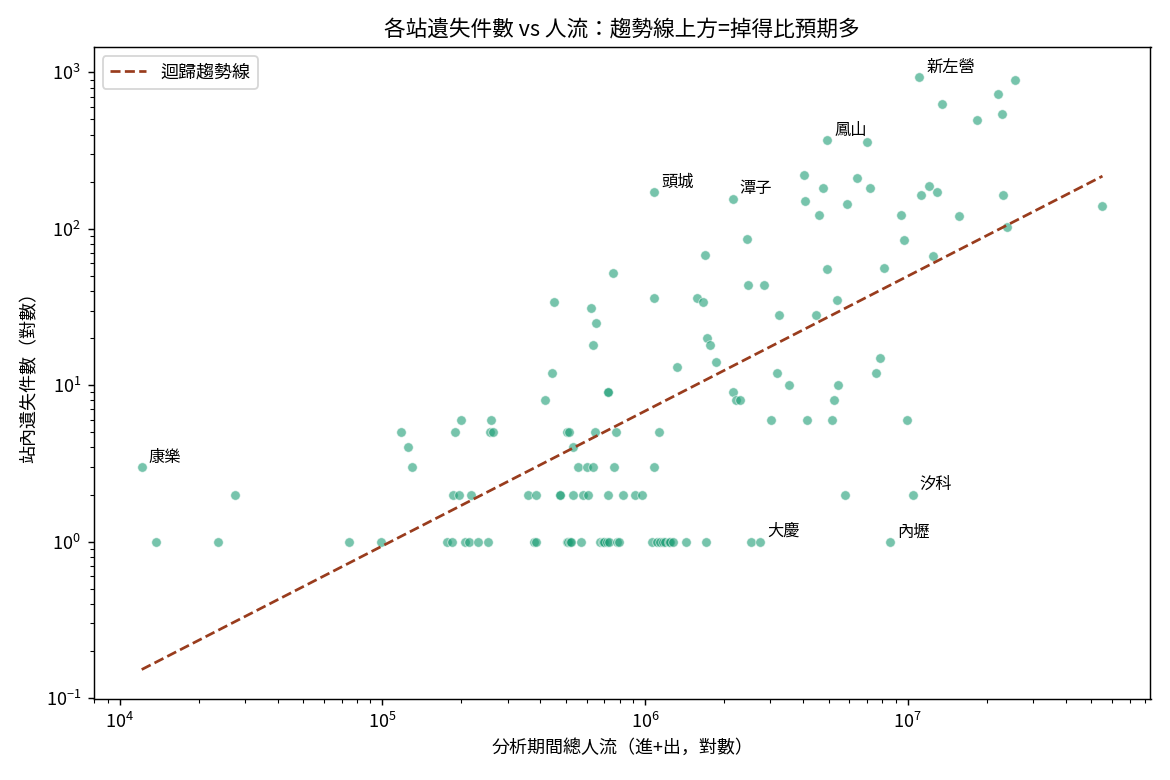
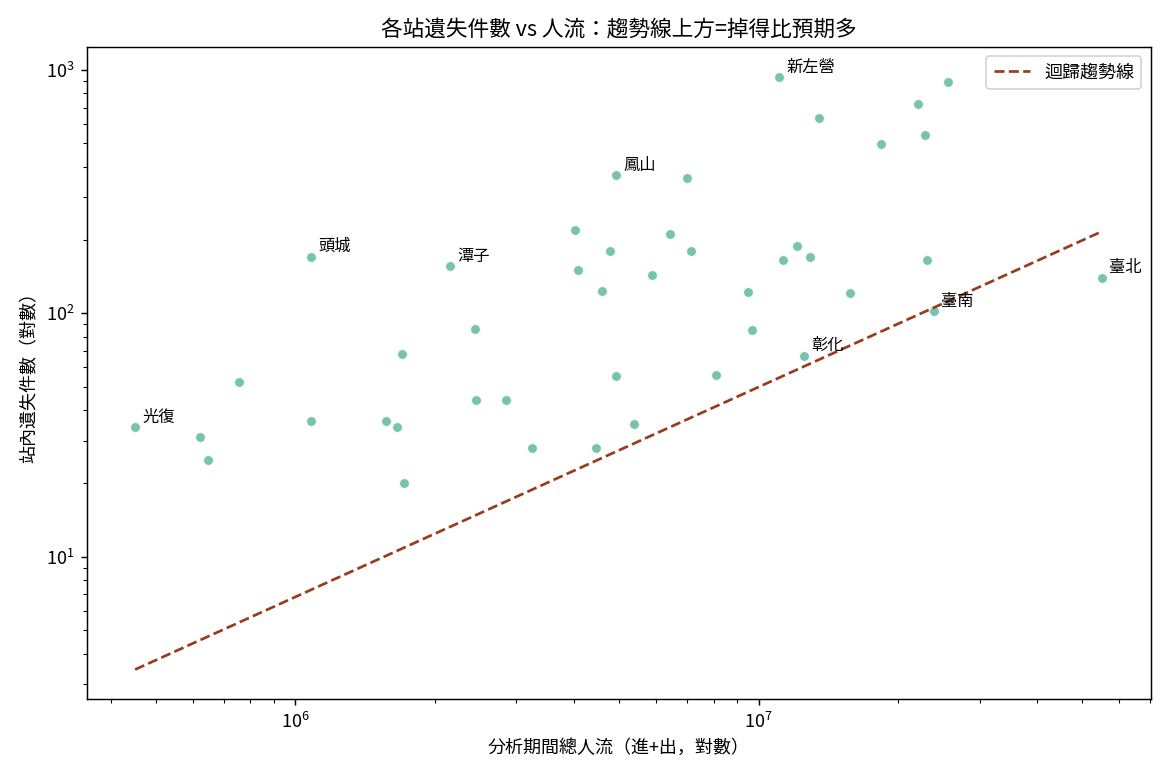
prototype update v1

diff --git a/src/analyze.py b/src/analyze.py
@@ -19,8 +19,11 @@ plt.rcParams["font.sans-serif"] = ["Noto Sans CJK TC", "Noto Sans CJK HK", "Noto
 plt.rcParams["axes.unicode_minus"] = False
 
 
-def loss_rate_outliers(agg: pd.DataFrame) -> pd.DataFrame:
-    """用 log(throughput) 對 lost_count 做線性迴歸，殘差為正=掉得比人流預期多。"""
+def loss_rate_outliers(agg: pd.DataFrame, min_count: int = None) -> pd.DataFrame:
+    """用 log(throughput) 對 lost_count 做線性迴歸，殘差為正=掉得比人流預期多。
+    迴歸用所有有遺失的站擬合；但只回報件數達門檻的站，避免低件數雜訊。"""
+    if min_count is None:
+        min_count = config.MIN_LOSS_COUNT
     d = agg[(agg["lost_count"] > 0) & (agg["throughput_window"] > 0)].copy()
     x = np.log10(d["throughput_window"])
     y = np.log10(d["lost_count"])
@@ -28,6 +31,7 @@ def loss_rate_outliers(agg: pd.DataFrame) -> pd.DataFrame:
     d["expected_log"] = b * x + a
     d["residual"] = (y - d["expected_log"]).round(3)
     d["fit_b"], d["fit_a"] = b, a
+    d = d[d["lost_count"] >= min_count]
     return d.sort_values("residual", ascending=False)
 
 
@@ -59,7 +63,7 @@ def fig_category(fact_lost: pd.DataFrame):
     cat.sort_values().plot.barh(ax=ax1, color="#378ADD")
     ax1.set_title("遺失物品類分布"); ax1.set_xlabel("件數")
     tier.plot.bar(ax=ax2, color=["#993C1D", "#EF9F27", "#1D9E75", "#888780"][:len(tier)])
-    ax2.set_title("價值層級分布（v1 分類）"); ax2.set_ylabel("件數")
+    ax2.set_title("價值層級分布（v2 分類）"); ax2.set_ylabel("件數")
     ax2.tick_params(axis="x", rotation=0)
     fig.tight_layout()
     fig.savefig(config.FIG / "02_category_value.png", dpi=130)
@@ -80,6 +84,85 @@ def fig_reverse_logistics(fact_lost: pd.DataFrame):
         ax.text(v, i, f" {v} ({v/len(fact_lost)*100:.0f}%)", va="center", fontsize=8)
     fig.tight_layout()
     fig.savefig(config.FIG / "03_reverse_logistics.png", dpi=130)
+    plt.close(fig)
+
+
+def _bezier_ribbon(ax, x0, y0a, y0b, x1, y1a, y1b, color, alpha=0.55):
+    """畫一條兩端等寬的流向緞帶（上下邊各一條三次貝茲曲線）。"""
+    from matplotlib.path import Path
+    import matplotlib.patches as patches
+    mx = (x0 + x1) / 2
+    verts = [(x0, y0a), (mx, y0a), (mx, y1a), (x1, y1a),
+             (x1, y1b), (mx, y1b), (mx, y0b), (x0, y0b), (x0, y0a)]
+    codes = [Path.MOVETO, Path.CURVE4, Path.CURVE4, Path.CURVE4,
+             Path.LINETO, Path.CURVE4, Path.CURVE4, Path.CURVE4, Path.CLOSEPOLY]
+    ax.add_patch(patches.PathPatch(Path(verts, codes), facecolor=color,
+                                   edgecolor="none", alpha=alpha))
+
+
+def fig_channel_flow(fact_lost: pd.DataFrame, addr2name: dict, top_n=5):
+    """Sankey：站內遺失 / 車上遺失  ->  最終保管站。寬度=件數。"""
+    df = fact_lost.copy()
+    df["keep_name"] = df["keep_addr"].map(lambda a: addr2name.get("".join(str(a).split())))
+    df = df[df["channel"].isin(["車站", "車次"]) & df["keep_name"].notna()]
+    src_label = {"車站": "站內遺失", "車次": "車上遺失"}
+
+    dests = list(df["keep_name"].value_counts().head(top_n).index)
+    def dkey(n): return n if n in dests else "其他/分散"
+    df["dest"] = df["keep_name"].map(dkey)
+    dest_order = dests + ["其他/分散"]
+
+    flows = df.groupby(["channel", "dest"]).size().reset_index(name="n")
+    sources = ["車站", "車次"]
+    total = len(df)
+    gap = total * 0.04
+
+    # 左右節點的垂直堆疊位置
+    src_sizes = df["channel"].value_counts().reindex(sources)
+    dst_sizes = df["dest"].value_counts().reindex(dest_order)
+
+    def stack(sizes):
+        pos = {}; y = 0
+        for k, v in sizes.items():
+            pos[k] = (y, y + v); y += v + gap
+        return pos, y
+    spos, sh = stack(src_sizes)
+    dpos, dh = stack(dst_sizes)
+
+    palette = ["#534AB7", "#1D9E75", "#378ADD", "#EF9F27", "#D85A30", "#888780", "#D4537E"]
+    dcolor = {d: palette[i % len(palette)] for i, d in enumerate(dest_order)}
+
+    fig, ax = plt.subplots(figsize=(11, 7))
+    x0, x1, w = 0.0, 1.0, 0.05
+    # 各節點內部依 dest 順序分配緞帶起訖位置
+    s_cursor = {s: spos[s][0] for s in sources}
+    d_cursor = {d: dpos[d][0] for d in dest_order}
+    for s in sources:
+        for d in dest_order:
+            row = flows[(flows["channel"] == s) & (flows["dest"] == d)]
+            if row.empty:
+                continue
+            n = int(row["n"].iloc[0])
+            y0a = s_cursor[s]; y0b = y0a + n; s_cursor[s] = y0b
+            y1a = d_cursor[d]; y1b = y1a + n; d_cursor[d] = y1b
+            _bezier_ribbon(ax, x0 + w, y0a, y0b, x1, y1a, y1b, dcolor[d])
+    # 節點長條
+    import matplotlib.patches as patches
+    for s in sources:
+        y0, y1 = spos[s]
+        ax.add_patch(patches.Rectangle((x0, y0), w, y1 - y0, color="#3C3489"))
+        ax.text(x0 - 0.02, (y0 + y1) / 2, f"{src_label[s]}\n{int(src_sizes[s]):,}件",
+                ha="right", va="center", fontsize=11)
+    for d in dest_order:
+        y0, y1 = dpos[d]
+        ax.add_patch(patches.Rectangle((x1, y0), w, y1 - y0, color=dcolor[d]))
+        ax.text(x1 + w + 0.02, (y0 + y1) / 2,
+                f"{d}  {int(dst_sizes[d]):,}", ha="left", va="center", fontsize=10)
+    ax.set_xlim(-0.35, 1.45); ax.set_ylim(-gap, max(sh, dh)); ax.invert_yaxis()
+    ax.axis("off")
+    ax.set_title("遺失物流向：站內遺失 vs 車上遺失，最終存到哪一站", fontsize=13)
+    fig.tight_layout()
+    fig.savefig(config.FIG / "04_channel_flow.png", dpi=130, bbox_inches="tight")
     plt.close(fig)
 
 

diff --git a/src/categorize.py b/src/categorize.py
@@ -1,38 +1,54 @@
 """
-品類 / 價值層級 / 可追回性 分類規則  ——  這是整個分析的「核心判斷邏輯」。
+品類 / 價值層級 / 可追回性 分類規則  (v2)
 
-⚠ 重要：這份對照表是 v1 草案，價值層級與可追回性的認定帶有主觀判斷，
-   必須由你（參賽者）親自檢視、調整、並在企劃書中說明判準。
-   這正是評審會檢視、也是 AI 不應代為決定的部分——請把它當成起點，不是定論。
+⚠ 這是分析的「核心判斷邏輯」，價值層級與可追回性帶有主觀判斷，
+   必須由你親自檢視、調整、並在企劃書中說明判準。
 
-設計方式：用「關鍵字比對」而非逐字對應，因為原始資料有 8,514 種不同品名，
-   逐字對應不可能。規則由上往下比對，命中第一個即停止，所以順序有意義
-   （例如「信用卡」要排在「卡」前面，才不會被通用的「卡」規則先吃掉）。
+兩層設計：
+  - 底層細類 category：保留解析度（價值分析需要）
+  - 大類 category_group：給高層次彙總用（細的可合併、合併的不能再拆）
+
+規則由上往下比對，命中第一個即停止 → 順序有意義
+  （例：交通票卡要排在信用卡證件前面，否則「電子票證」會被「證件」誤吃）。
 """
 
-# (類別, [關鍵字], 價值層級, 是否通常可追回失主)
-# 價值層級：高 / 中 / 低
-# 可追回：True = 物品通常帶有可辨識失主的資訊（記名卡、證件等）
+# (細類, [關鍵字], 價值層級高/中/低, 是否通常可追回失主)
 CATEGORY_RULES = [
+    ("交通票卡",   ["悠遊卡", "一卡通", "icash", "愛金卡", "電子票證", "定期票",
+                  "月票", "車票", "票卡", "票證"], "中", True),
     ("信用卡證件", ["信用卡", "金融卡", "提款卡", "身分證", "身份證", "健保卡",
-                  "駕照", "護照", "證件", "員工證", "學生證"], "高", True),
-    ("交通票卡",   ["悠遊卡", "一卡通", "icash", "愛金卡", "車票", "票卡", "月票"], "中", True),
+                  "駕照", "護照", "證件", "員工證", "學生證", "居留證"], "高", True),
     ("3C電子",     ["手機", "iphone", "ipad", "平板", "電腦", "筆電", "相機", "耳機",
-                  "充電", "行動電源", "滑鼠", "鍵盤", "隨身碟", "手錶", "智慧"], "高", False),
-    ("現金",       ["現金", "鈔", "零錢", "錢"], "高", False),
-    ("眼鏡",       ["眼鏡", "墨鏡"], "中", False),
-    ("袋包",       ["背包", "提袋", "手提", "包包", "袋", "包", "皮夾", "錢包", "皮包"], "中", False),
-    ("鑰匙",       ["鑰匙", "鎖", "鎖匙"], "中", False),
+                  "充電", "行動電源", "傳輸線", "腳架", "自拍棒", "滑鼠", "鍵盤",
+                  "隨身碟", "記憶卡", "小米", "智慧手", "智慧錶", "智慧型"], "高", False),
+    ("現金",       ["現金", "新台幣", "新臺幣", "鈔", "零錢"], "高", False),
+    ("飾品",       ["戒指", "項鍊", "手鍊", "手環", "耳環", "飾品", "墜", "鍊子", "胸針"], "高", True),
+    ("眼鏡",       ["眼鏡", "墨鏡", "鏡框"], "中", False),
+    ("鑰匙",       ["鑰匙", "鎖匙", "key"], "中", False),
     ("雨具",       ["傘"], "低", False),
-    ("衣帽配件",   ["帽", "外套", "衣", "圍巾", "手套", "安全帽", "口罩", "圍兜"], "低", False),
-    ("瓶罐水壺",   ["保溫瓶", "水瓶", "水壺", "瓶", "壺", "杯", "餐具"], "低", False),
+    ("衣帽配件",   ["帽", "外套", "衣", "圍巾", "手套", "安全帽", "口罩", "圍兜",
+                  "鞋", "拖鞋", "背心"], "低", False),
+    ("瓶罐水壺",   ["保溫瓶", "水瓶", "水壺", "瓶", "壺", "杯", "餐具", "便當盒"], "低", False),
+    ("書",         ["書", "本子", "書籍"], "低", False),
+    ("袋包",       ["背包", "提袋", "手提", "包包", "皮夾", "錢包", "皮包",
+                  "行李箱", "登機箱", "袋", "包"], "中", False),
 ]
 
 DEFAULT = ("其他", "未知", False)
 
+# 大類（category_group）：細類 -> 大類
+CATEGORY_GROUP = {
+    "交通票卡": "證件票卡", "信用卡證件": "證件票卡",
+    "3C電子": "3C電子",
+    "現金": "現金",
+    "飾品": "服飾隨身", "眼鏡": "服飾隨身", "衣帽配件": "服飾隨身", "袋包": "服飾隨身",
+    "雨具": "生活用品", "瓶罐水壺": "生活用品", "鑰匙": "生活用品", "書": "生活用品",
+    "其他": "其他",
+}
+
 
 def classify(name: str):
-    """回傳 (category, value_tier, recoverable)。name 為原始品名字串。"""
+    """回傳 (category, value_tier, recoverable)。"""
     n = (name or "").lower()
     for cat, kws, tier, recover in CATEGORY_RULES:
         if any(k.lower() in n for k in kws):
@@ -40,7 +56,12 @@ def classify(name: str):
     return DEFAULT
 
 
+def group_of(category: str) -> str:
+    return CATEGORY_GROUP.get(category, "其他")
+
+
 if __name__ == "__main__":
-    # 快速自我測試
-    for s in ["黑色長傘", "iPhone 13", "悠遊卡(記名)", "現金若干", "保溫瓶", "不明物品"]:
-        print(f"{s:>12} -> {classify(s)}")
+    for s in ["黑色長傘", "iPhone 13", "悠遊卡(記名)", "電子票證", "戒指",
+              "小米手環", "現金若干", "登山杖", "不明物品"]:
+        c, t, r = classify(s)
+        print(f"{s:>10} -> {c} / {t} / 可追回={r} / 大類={group_of(c)}")

diff --git a/src/run_prototype.py b/src/run_prototype.py
@@ -28,6 +28,12 @@ def main():
     analyze.fig_category(fact_lost)
     analyze.fig_reverse_logistics(fact_lost)
 
+    # 站址 -> 站名 對照（給流向圖判斷保管站）
+    import json
+    addr2name = {"".join(s["stationAddrTw"].split()): s["stationName"]
+                 for s in json.load(open(config.STATION_JSON, encoding="utf-8"))}
+    analyze.fig_channel_flow(fact_lost, addr2name)
+
     # 存乾淨資料表（之後可餵給 Tableau）
     fact_lost.to_csv(config.PROCESSED / "fact_lost.csv", index=False, encoding="utf-8-sig")
     agg.to_csv(config.PROCESSED / "agg_station.csv", index=False, encoding="utf-8-sig")

diff --git a/src/config.py b/src/config.py
@@ -22,3 +22,6 @@ RIDERSHIP_CSV = {
 # 人流分母只取這個共同視窗（見 build_tables.py）。
 ANALYSIS_START = "2022-01-01"
 ANALYSIS_END = "2023-07-17"
+
+# 離群分析最低件數門檻：實測 ≥10 件結論即穩定，取 20 更保守。
+MIN_LOSS_COUNT = 20

diff --git a/src/parse_lost_property.py b/src/parse_lost_property.py
@@ -7,7 +7,7 @@ import xml.etree.ElementTree as ET
 import pandas as pd
 
 from . import config
-from .categorize import classify
+from .categorize import classify, group_of
 
 # 從 pickupLocation 解析的兩種格式
 _STATION_RE = re.compile(r"車站:\s*(\d+)-(.+)")
@@ -38,6 +38,7 @@ def load_fact_lost() -> pd.DataFrame:
             "pickup_dt": _text(r, "pickupDate"),
             "property_name": name,
             "category": cat,
+            "category_group": group_of(cat),
             "value_tier": tier,
             "recoverable": recover,
             "channel": channel,           # 車站 / 車次 / 未知